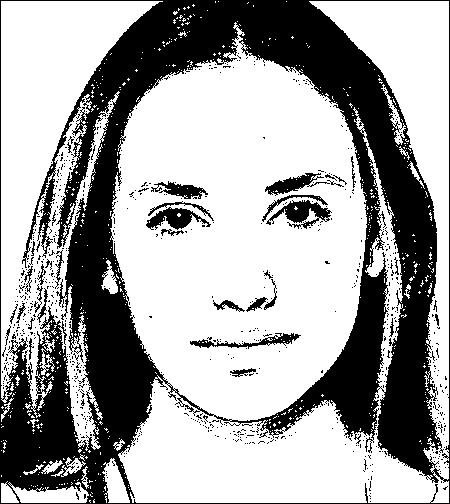
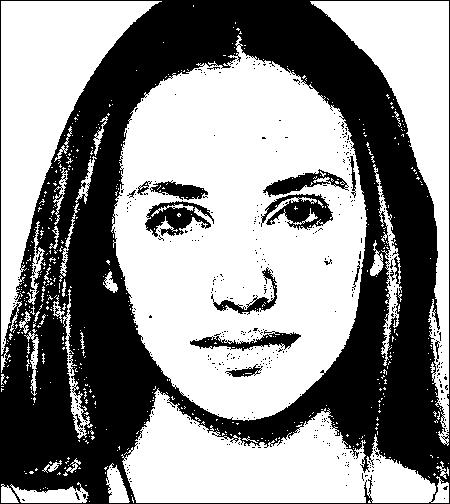
Finished debugging grouping...

diff --git a/extract_blocks.py b/extract_blocks.py
@@ -9,7 +9,7 @@ from skimage.morphology import (erosion, dilation, closing, opening,
 def preprocess(image_name):
     # Tunable parameters. Can play around with these
     f = 11 # Boosting factor
-    threshold = 25 # Threshold for binary image
+    threshold = 30 # Threshold for binary image
 
     im = np.array(Image.open(image_name).convert("L"))
 
@@ -67,21 +67,27 @@ def preprocess(image_name):
             else:
                 boosted_im[i][j] = 0
 
-    # new_img = Image.fromarray(boosted_im.astype(np.uint8))
-    # new_img.save("boosted.jpg")
+    new_img = Image.fromarray(boosted_im.astype(np.uint8))
+    new_img.save("boosted.jpg")
     return boosted_im
 
 # Returns the neighbors of a given point
 def neighbors(im, point):
     res = []
-    if (point[0] < im.shape[0] - 1):
-        res.append((point[0]+1, point[1]))
-    if (point[0] > 1):
-        res.append((point[0]-1, point[1]))
-    if (point[1] < im.shape[1] - 1):
-        res.append((point[0], point[1]+1))
-    if (point[1] > 1):
-        res.append((point[0], point[1]-1))
+    for i in range(point[0]-1, point[0]+2):
+        for j in range(point[1]-1, point[1]+2):
+            if (i == point[0] and j == point[1]):
+                continue
+            if i > 0 and i < im.shape[0] and j > 0 and j < im.shape[1]:
+                res.append((i,j))
+    # if (point[0] < im.shape[0] - 1):
+    #     res.append((point[0]+1, point[1]))
+    # if (point[0] > 1):
+    #     res.append((point[0]-1, point[1]))
+    # if (point[1] < im.shape[1] - 1):
+    #     res.append((point[0], point[1]+1))
+    # if (point[1] > 1):
+    #     res.append((point[0], point[1]-1))
     return res
 
 def search(labeled_im, cur_label, r, c):
@@ -138,7 +144,7 @@ def label_illustration(labeled_im):
                 g = random.randint(0,255)
                 b = random.randint(0,255)
                 # ctr += 1
-                # if (ctr > 11):
+                # if (ctr > 19):
                 #     r = 255
                 #     g = 255
                 #     b = 255
@@ -159,19 +165,23 @@ def label_illustration(labeled_im):
 ############ Calculating centre of mass and orientation and grouping ############
 def calculate_mu(x_coords, y_coords, x_bar, y_bar, p, q):
     mu = 0
-    for i in range(len(x_coords)):
-        for j in range(len(y_coords)):
-            mu += np.power((x_coords[i] - x_bar),p) * np.power((y_coords[j] - y_bar),q)
+    x_diff = np.power(y_coords - y_bar, p)
+    y_diff = np.power(x_coords - x_bar, q)
+    mu = np.sum(x_diff)
+    mu += np.sum(y_diff)
+    # for i in range(len(x_coords)):
+    #     for j in range(len(y_coords)):
+    #         mu += np.power((x_coords[i] - x_bar),p) * np.power((y_coords[j] - y_bar),q)
     return mu
 
-def get_component_indices(labeled_im, cur_label):
-    block_number_coords = np.zeros(cur_label)
-    x_bar_all = np.zeros(cur_label)
-    y_bar_all = np.zeros(cur_label)
-    theta_all = np.zeros(cur_label)
+def get_component_indices(labeled_im, num_labels):
+    block_number_coords = np.zeros(num_labels)
+    x_bar_all = np.zeros(num_labels)
+    y_bar_all = np.zeros(num_labels)
+    theta_all = np.zeros(num_labels)
     x_coords_all = []
     y_coords_all = []
-    for cur_label in range(1, cur_label + 1):
+    for cur_label in range(1, num_labels + 1):
         # print(cur_label)
         x_coords = np.where( labeled_im == cur_label )[0] 
         y_coords = np.where( labeled_im == cur_label )[1] 
@@ -179,16 +189,17 @@ def get_component_indices(labeled_im, cur_label):
         y_coords_all.append(y_coords)
         block_number_coords[cur_label - 1] = len(x_coords)
 
-        x_bar_all[cur_label - 1] = int( np.average(x_coords) )
-        y_bar_all[cur_label - 1] = int( np.average(y_coords) )
+        x_bar_all[cur_label - 1] = np.average(x_coords)
+        y_bar_all[cur_label - 1] = np.average(y_coords)
 
-        if (len(x_coords)>5000 or len(y_coords>5000)):
+        if (len(x_coords)>5000 or len(y_coords)>5000 or num_labels > 100):
             continue
         mu_1_1 = calculate_mu(x_coords, y_coords, x_bar_all[cur_label - 1], y_bar_all[cur_label - 1], 1, 1)
         mu_2_0 = calculate_mu(x_coords, y_coords, x_bar_all[cur_label - 1], y_bar_all[cur_label - 1], 2, 0)
         mu_0_2 = calculate_mu(x_coords, y_coords, x_bar_all[cur_label - 1], y_bar_all[cur_label - 1], 0, 2)
 
-        if (mu_2_0 - mu_0_2) == 0: continue
+        if (mu_2_0 - mu_0_2) == 0: 
+            continue
         theta_all[cur_label - 1] = 0.5 * ( np.arctan2( 2*mu_1_1, (mu_2_0 - mu_0_2) ) )
 
     return x_bar_all, y_bar_all, theta_all, block_number_coords, x_coords_all, y_coords_all
@@ -199,17 +210,15 @@ def get_component_indices(labeled_im, cur_label):
 #     test_im[51][i] = 1.
 #     test_im[60][i] = 2.
 #     test_im[61][i] = 2.
-# x_bar_all, y_bar_all, theta_all, block_number_coords, x_coords_all, y_coords_all = get_component_indices(test_im, 2)
+#     test_im[i][98] = 3.
+#     test_im[i][99] = 3.
+# x_bar_all, y_bar_all, theta_all, block_number_coords, x_coords_all, y_coords_all = get_component_indices(test_im, 3)
 # print(x_bar_all)
 # print(y_bar_all)
 # print(theta_all)
 # print(block_number_coords)
 # print(x_coords_all)
 # print(y_coords_all)
-# print(len(np.unique(labeled_im)))
-# print(cur_label)
-# print(labeled_im.shape[0]*labeled_im.shape[1])
-# x_bar_all, y_bar_all, theta_all, block_number_coords, x_coords_all, y_coords_all = get_component_indices(labeled_im, cur_label)
 
 def find_blocks_within_radius(cur_block_idx, labeled_im, x_bar, y_bar, radius):
     min_y = int(np.floor(y_bar - radius))
@@ -244,7 +253,7 @@ def find_nearest_block(cur_block_idx, blocks_within_radius, x_bar, y_bar):
     return min_distance_block 
 
 def grouping(labeled_im, cur_label, block_number_coords, x_bar, y_bar, x_coords_all, y_coords_all):
-    N_max = 80 #??????? This changes based on the image - need to test different values
+    N_max = 100 #??????? This changes based on the image - need to test different values
     for N in range(1, N_max + 1):
         radius = 8 - ( 6 * ( (N - 1) / (N_max - 1) ) )
         count = 0
@@ -338,22 +347,26 @@ def classifyFace(image_name):
     labeled_im, cur_label = label(im)
     x_bar_all, y_bar_all, theta_all, block_number_coords, x_coords_all, y_coords_all = get_component_indices(labeled_im, cur_label)
     labeled_im = grouping(labeled_im, cur_label, block_number_coords, x_bar_all, y_bar_all, x_coords_all, y_coords_all)
-    print(str(len(np.unique(labeled_im))) + " Connected Components")
+    print(str(len(np.unique(labeled_im)) - 1) + " Connected Components")
     num_labels = len(np.unique(labeled_im)) - 1
     relabel_grouped_im(labeled_im, num_labels)
 
-    # good_labels = {1, 4, 6, 7, 10, 12, 14}
-    # 7 10 12 14
+    # good_labels = {20, 21, 22, 23, 24, 25}
     # use_only_good_labels(labeled_im, good_labels)
-
+    # num_labels = len(np.unique(labeled_im)) - 1
     label_illustration(labeled_im)
+
     x_bar_all, y_bar_all, theta_all, block_number_coords, x_coords_all, y_coords_all = get_component_indices(labeled_im, num_labels)
     block_lengths = get_block_lengths(x_bar_all, y_bar_all, theta_all, x_coords_all, y_coords_all)
 
+    # print(x_bar_all)
+    # print(y_bar_all)
+    # print(theta_all)
 
-    # blocks = []
-    # for i in range(len(block_lengths)):
-    #     blocks.append(Block(x_bar_all[i], y_bar_all[i], theta_all[i], block_lengths[i]))
-    # print(Matching(blocks))
+
+    blocks = []
+    for i in range(len(block_lengths)):
+        blocks.append(Block(y_bar_all[i], x_bar_all[i], theta_all[i], block_lengths[i]))
+    print(Matching(blocks))
 
 classifyFace('data/test_face.jpg')
